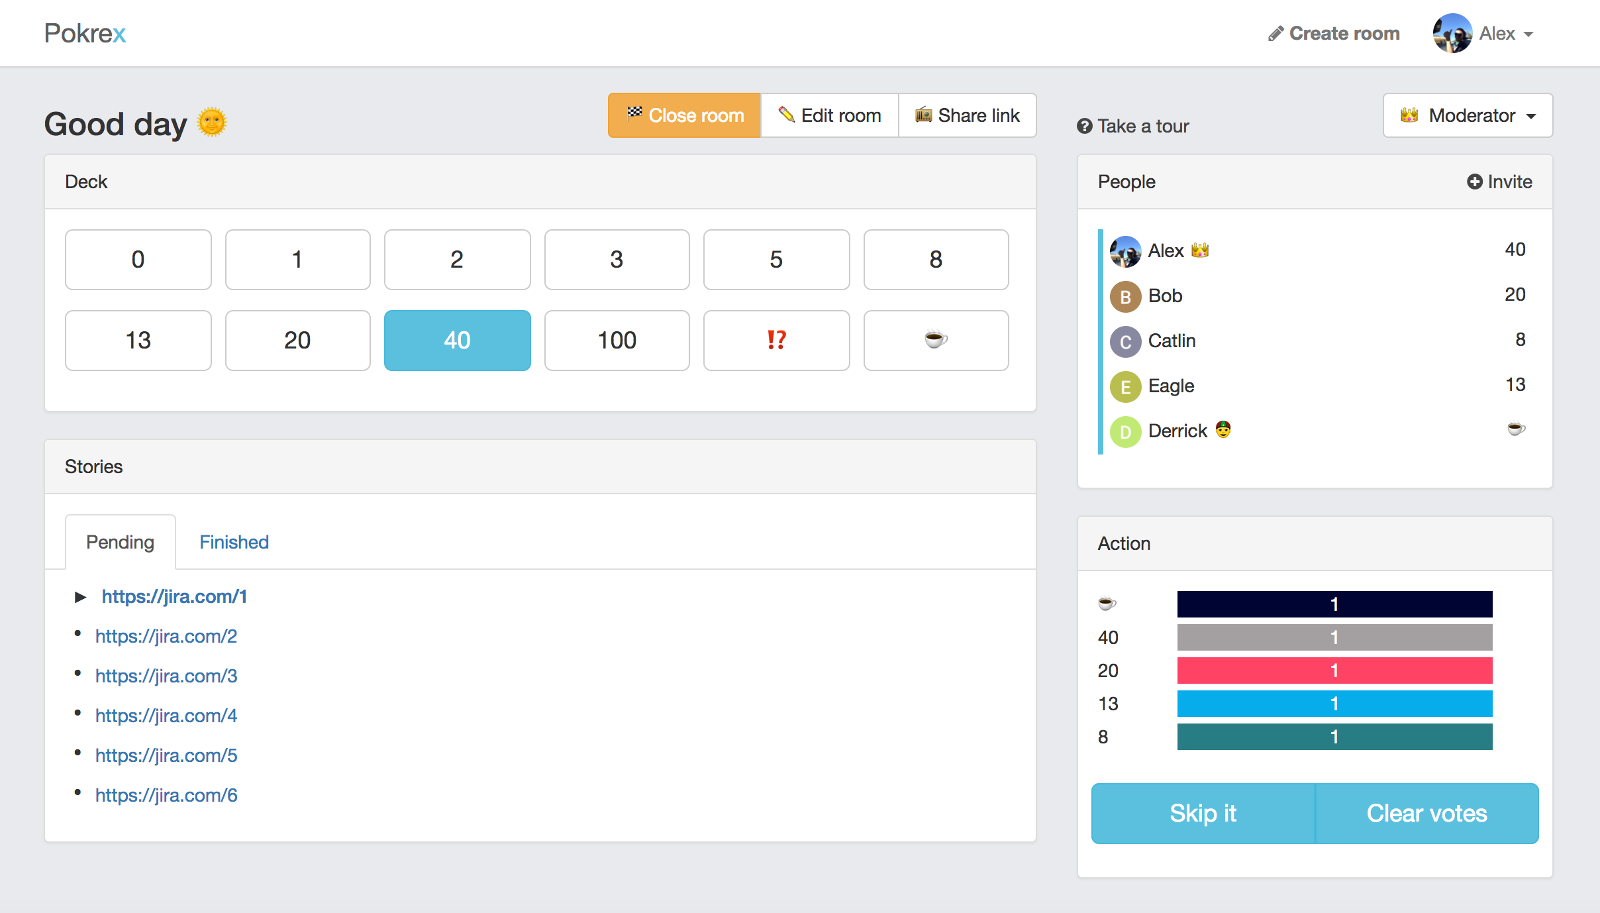
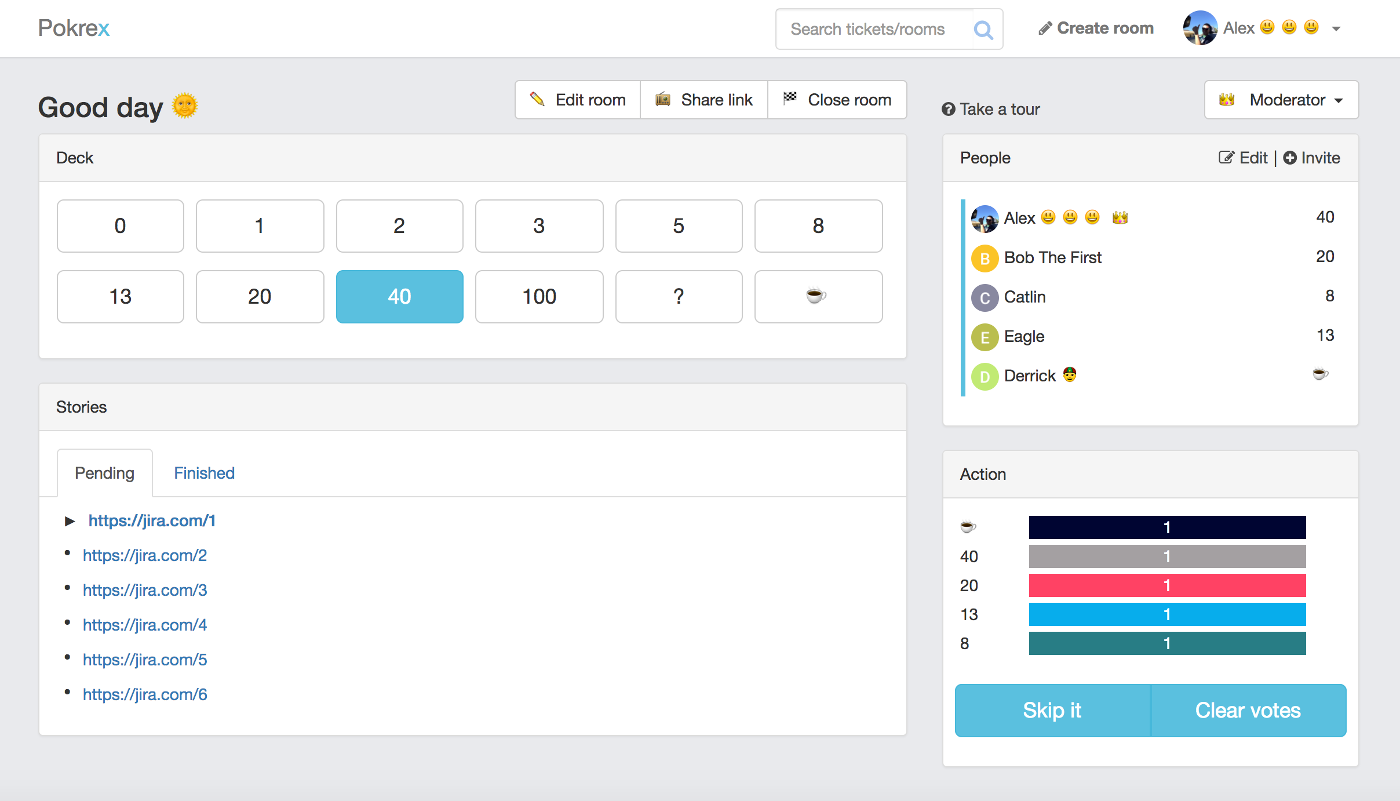
Update images and changelog

diff --git a/CHANGELOG.md b/CHANGELOG.md
@@ -2,6 +2,23 @@
 All notable changes to this project will be documented in this file.
 This project adheres to [Semantic Versioning](http://semver.org/).
 
+## [0.9.0] - 2018-03-15
+### Added
+- Add posts pages, along with one post 😀 [#191](https://github.com/hlcfan/pokr/pull/191)
+
+## [0.8.0] - 2018-03-14
+### Added
+- Allow quick search tickets and rooms in navigation bar [#190](https://github.com/hlcfan/pokr/pull/190)
+
+## [0.7.0] - 2018-01-28
+### Added
+- Allow moderator to delete rooms [#183](https://github.com/hlcfan/pokr/pull/183)
+
+## [0.6.0] - 2018-01-14
+### Added
+- Support guest [#166](https://github.com/hlcfan/pokr/pull/166)
+- Add QR code in invitation email [#180](https://github.com/hlcfan/pokr/pull/180)
+
 ## [0.5.8] - 2017-12-09
 ### Changed
 - Refresh user/ticket list after updating room [c1d1189](https://github.com/hlcfan/pokr/commit/c1d11894f7aabe0ac942a19ca0e6bd3f8ae26190)
